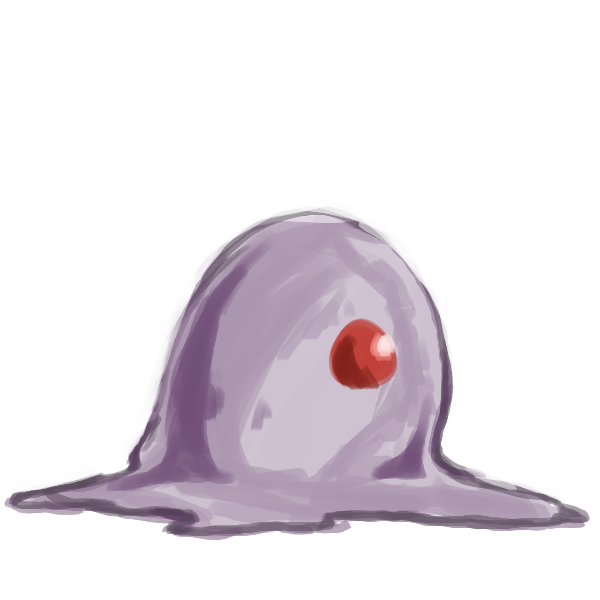
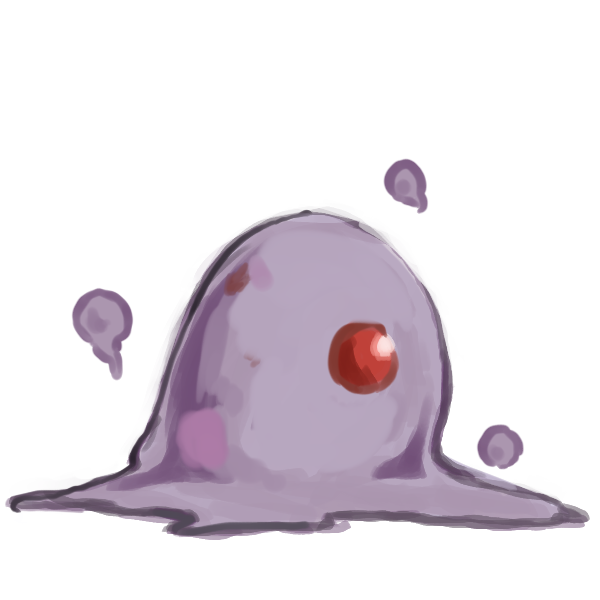
* Rizardのtypo修正(->Lizard), * ダークスララのイラスト修正 * 魔物を2匹追加

diff --git a/backend/app/Enums/Rpg/EnemyData.php b/backend/app/Enums/Rpg/EnemyData.php
@@ -44,8 +44,10 @@ enum EnemyData: int
     case DarkSrara = 90;
     case BazaarLizard = 91;
     case Anima = 92;
-    case GolemBall = 94;
-    case StoneGolem = 95;
+    case WitherNepenthos = 93;
+    case PotDio = 94;
+    case GolemBall = 95;
+    case StoneGolem = 96;
 
     case GaiaHand = 100;
     case DeathScorpio = 101;
@@ -103,6 +105,8 @@ enum EnemyData: int
             self::DarkSrara => 'ダークスララ',
             self::BazaarLizard => 'バザールリザード',
             self::Anima => 'アニマ',
+            self::WitherNepenthos => '枯れたネペントス',
+            self::PotDio => 'ポットディオ',
             self::GolemBall => 'ゴーレムボール',
             self::StoneGolem => 'ストーンゴーレム',
 
@@ -165,6 +169,8 @@ enum EnemyData: int
             self::DarkSrara => 'ダークスララ',
             self::BazaarLizard => 'バザールリザード',
             self::Anima => 'アニマ',
+            self::WitherNepenthos => '枯れたネペントス',
+            self::PotDio => 'ポットディオ',
             self::GolemBall => 'ゴーレムボール',
             self::StoneGolem => 'ストーンゴーレム',
 
@@ -226,6 +232,8 @@ enum EnemyData: int
             self::DarkSrara => 'darksrara.png',
             self::BazaarLizard => 'bazaarlizard.png',
             self::Anima => 'anima.png',
+            self::WitherNepenthos => 'withernepenthos.png',
+            self::PotDio => 'potdio.png',
             self::GolemBall => 'golemball.png',
             self::StoneGolem => 'stonegolem.png',
 
@@ -335,6 +343,8 @@ enum EnemyData: int
             self::DarkSrara->value,
             self::BazaarLizard->value,
             self::Anima->value,
+            self::WitherNepenthos->value,
+            self::PotDio->value,
             self::GolemBall->value,
             self::StoneGolem->value,
         ];

diff --git a/backend/database/seeders/rpg/EnemyTableSeeder.php b/backend/database/seeders/rpg/EnemyTableSeeder.php
@@ -592,6 +592,40 @@ class EnemyTableSeeder extends Seeder
                 'updated_at' => $now,
             ],
             [
+                'id' => EnemyData::WitherNepenthos,
+                'name' => EnemyData::WitherNepenthos->label(),
+                'value_hp' => 120,
+                'value_ap' => 20,
+                'value_str' => 40,
+                'value_def' => 10,
+                'value_int' => 30,
+                'value_spd' => 60,
+                'value_luc' => 0,
+                'exp' => 200,
+                'drop_money' => 900,
+                'portrait_image_path' => EnemyData::WitherNepenthos->image_path(),
+                'description' => EnemyData::WitherNepenthos->description(),
+                'created_at' => $now,
+                'updated_at' => $now,
+            ],
+            [
+                'id' => EnemyData::PotDio,
+                'name' => EnemyData::PotDio->label(),
+                'value_hp' => 120,
+                'value_ap' => 20,
+                'value_str' => 40,
+                'value_def' => 10,
+                'value_int' => 30,
+                'value_spd' => 60,
+                'value_luc' => 0,
+                'exp' => 200,
+                'drop_money' => 900,
+                'portrait_image_path' => EnemyData::PotDio->image_path(),
+                'description' => EnemyData::PotDio->description(),
+                'created_at' => $now,
+                'updated_at' => $now,
+            ],
+            [
                 'id' => EnemyData::GolemBall,
                 'name' => EnemyData::GolemBall->label(),
                 'value_hp' => 120,

diff --git a/backend/database/seeders/rpg/PresetAppearingEnemyTableSeeder.php b/backend/database/seeders/rpg/PresetAppearingEnemyTableSeeder.php
@@ -564,6 +564,18 @@ class PresetAppearingEnemyTableSeeder extends Seeder
             [
                 'field_id' => FieldData::CastleTown,
                 'stage_id' => 1,
+                'enemy_id' => EnemyData::WitherNepenthos,
+                'number' => 1,
+            ],
+            [
+                'field_id' => FieldData::CastleTown,
+                'stage_id' => 1,
+                'enemy_id' => EnemyData::PotDio,
+                'number' => 1,
+            ],
+            [
+                'field_id' => FieldData::CastleTown,
+                'stage_id' => 1,
                 'enemy_id' => EnemyData::GolemBall,
                 'number' => 1,
             ],
